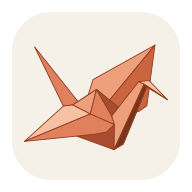
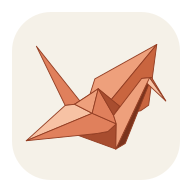
Fold the crane's head down and use the crane as the in-app mark
The head is now the neck tip inside-reverse-folded across a crease, so it
hangs down between the neck layers as it does on a real crane. The "W."
wordmark on the start page, sidebar, loading gate and onboarding is
replaced by mark.svg, the same crane without the icon tile.

diff --git a/src/features/sessions/StartChat.vue b/src/features/sessions/StartChat.vue
@@ -132,7 +132,7 @@ async function send(text: string, attachments: AttachmentInput[]) {
       <button class="btn ghost icon-only" :aria-label="i18n.t('nav.settings')" @click="router.push('/settings')"><Icon name="settings"/></button>
     </div>
     <div class="start-surface">
-      <div class="start-mark" aria-hidden="true">W<span>.</span></div>
+      <img class="start-mark" src="/app-icons/mark.svg" alt="" />
       <Composer ref="composer" session-id="new-session" :mobile="mobile" start :send-message="send" :disabled="!selection.model || !cwd.trim() || busy || (!manuallySelected && !defaultReady)">
         <template #selection>
           <div class="start-model-controls model-selection">
@@ -161,8 +161,7 @@ async function send(text: string, attachments: AttachmentInput[]) {
 <style scoped>
 .start-chat { height: 100%; min-height: 0; overflow: auto; display: flex; align-items: center; justify-content: center; padding: 32px clamp(24px, 5vw, 80px); position: relative; }
 .start-surface { width: 100%; max-width: 740px; margin-block: auto; padding-block: 24px 12vh; }
-.start-mark { font: 600 44px/1.2 var(--display); text-align: center; margin-bottom: 28px; letter-spacing: -.05em; }
-.start-mark span { color: var(--accent); }
+.start-mark { display: block; width: 72px; height: auto; margin: 0 auto 28px; }
 .start-model-controls { display: inline-flex; width: max-content; max-width: 100%; align-items: center; min-width: 0; gap: 3px; }
 .start-model-controls button { font-size: 12px; min-width: 0; overflow: hidden; text-overflow: ellipsis; white-space: nowrap; }
 .start-model-controls .model-chip { flex: 0 1 auto; max-width: min(38vw, 320px); }
@@ -183,8 +182,8 @@ async function send(text: string, attachments: AttachmentInput[]) {
   .mobile-home { flex-direction: column; justify-content: flex-start; padding: 52px 24px 24px; }
   .mobile-home .start-surface { flex-shrink: 0; margin: auto; padding: 0; }
   :deep(.composer-mobile-actions .composer-start-selection) { flex: 1; min-width: 0; padding: 0; }
-  .mobile-home .start-mark { font-size: 28px; text-align: left; margin-bottom: 16px; }
-  .start-mark { font-size: 36px; margin-bottom: 24px; }
+  .mobile-home .start-mark { width: 48px; margin: 0 0 16px; }
+  .start-mark { width: 60px; margin-bottom: 24px; }
   :deep(.composer-start) { min-height: 0; padding: 12px 12px 14px; }
   :deep(.composer-start .composer-mobile-actions) { margin-bottom: 12px; }
   :deep(.composer-start.mobile .composer-editor), :deep(.composer-start.mobile .composer-input) { min-height: 72px; }

diff --git a/src/App.vue b/src/App.vue
@@ -62,14 +62,14 @@ const go = (item: typeof nav[number]) => router.push(item.id === 'sessions' ? se
   <TooltipProvider :delay-duration="450" :skip-delay-duration="150">
   <ProviderSetup v-if="gate.state.value === 'required'" @complete="async () => { await router.replace('/new'); await gate.refresh(); }" />
   <main v-else-if="gate.state.value !== 'ready'" class="provider-gate-status" aria-live="polite">
-    <span class="brand-mark">w<span>.</span></span>
+    <img class="brand-mark" src="/app-icons/mark.svg" alt="" />
     <p>{{ gate.state.value === 'error' ? tr('无法读取服务配置', 'Unable to read server configuration') : tr('正在读取配置…', 'Loading configuration…') }}</p>
     <p v-if="gate.error.value" class="load-error" role="alert">{{ gate.error.value }}</p>
     <button v-if="gate.state.value === 'error'" class="btn" @click="gate.refresh()">{{tr('重试', 'Retry')}}</button>
   </main>
   <div v-else class="shell" :class="isMobile ? 'mobile' : 'desktop'">
     <nav class="vbar" :aria-label="i18n.t('app.name')">
-      <RouterLink :to="sessionLocation" class="brand-mark" aria-label="Wish">w<span>.</span></RouterLink>
+      <RouterLink :to="sessionLocation" class="brand-mark" aria-label="Wish"><img src="/app-icons/mark.svg" alt="" /></RouterLink>
       <Hint :text="item.label()" v-for="item in top" :key="item.id"><button class="nav-btn" :class="{ active: isActive(item.id) }"
         :aria-current="isActive(item.id) ? 'page' : undefined" :aria-label="item.label()" @click="go(item)">
         <Icon :name="item.icon" />
@@ -114,6 +114,7 @@ const go = (item: typeof nav[number]) => router.push(item.id === 'sessions' ? se
 
 <style>
 .provider-gate-status { min-height:100dvh; display:flex; flex-direction:column; align-items:center; justify-content:center; padding:28px; gap:12px; text-align:center; }
+.provider-gate-status .brand-mark { width:64px; }
 @media (min-width: 900px) { .settings-route-host { display: contents !important; } }
 @media (max-width: 899px) { .settings-route-host { position: absolute; inset: 0; z-index: 30; background: transparent; } }
 .settings-route-host.is-closing { pointer-events: none; }

diff --git a/src/features/onboarding/ProviderSetup.vue b/src/features/onboarding/ProviderSetup.vue
@@ -29,7 +29,7 @@ async function finish() { if (await save()) emit('complete'); }
   <main class="provider-setup">
     <div class="setup-content">
       <header>
-        <span class="setup-brand" aria-hidden="true">W<span>.</span></span>
+        <img class="setup-brand" src="/app-icons/mark.svg" alt="" />
         <p class="setup-eyebrow">{{ tr('欢迎使用 WISH', 'WELCOME TO WISH') }}</p>
         <h1>{{ tr('连接你的第一个模型', 'Connect your first model') }}</h1>
         <p class="setup-intro">{{ tr('还没有可用的提供商。完成配置后，就可以开始对话。', 'No provider is ready yet. Set one up to start a conversation.') }}</p>
@@ -60,7 +60,7 @@ async function finish() { if (await save()) emit('complete'); }
 <style scoped>
 .provider-setup{height:100dvh;overflow-y:auto;overscroll-behavior:contain;background:var(--bg);padding:48px 28px;box-sizing:border-box}
 .setup-content{width:min(100%,520px);margin:0 auto;padding-bottom:32px}
-.setup-brand{font-family:var(--font-display);font-size:38px;font-weight:700}.setup-brand span{color:var(--accent)}
+.setup-brand{display:block;width:60px;height:auto}
 .setup-eyebrow{margin:28px 0 10px;font-size:11px;letter-spacing:.12em;color:var(--fg-subtle)}
 h1{font-size:28px;margin:0 0 12px}.setup-intro{color:var(--fg-subtle);line-height:1.7;margin-bottom:28px}
 fieldset{border:0;padding:0;margin:0;display:grid;gap:18px;min-width:0}label{display:grid;gap:8px;font-size:13px}.input{width:100%;box-sizing:border-box;min-height:44px}

diff --git a/src/styles/layout.css b/src/styles/layout.css
@@ -3,9 +3,8 @@
   width: var(--w-sidebar); flex: none; display: flex; flex-direction: column; align-items: center;
   padding: 10px 0 8px; gap: 4px; border-right: 1px solid var(--line); background: var(--rail-bg); z-index: 20;
 }
-.brand-mark { font: 600 24px/1 var(--display); letter-spacing: -.08em; color: var(--fg); margin: 0 0 8px; }
-.brand-mark span { color: var(--accent); }
-.brand-mark:hover { text-decoration: none; }
+.brand-mark { display: block; margin: 0 0 8px; }
+.brand-mark img, img.brand-mark { display: block; width: 32px; height: auto; }
 .vbar .spacer { flex: 1; }
 .nav-btn {
   width: 34px; min-height: 36px; border-radius: var(--radius); display: flex; flex-direction: column;
